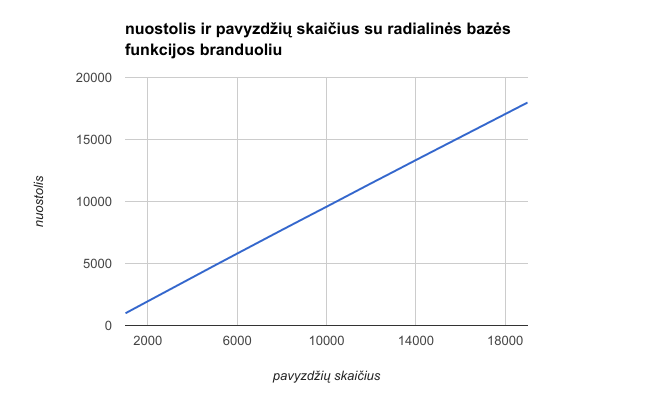
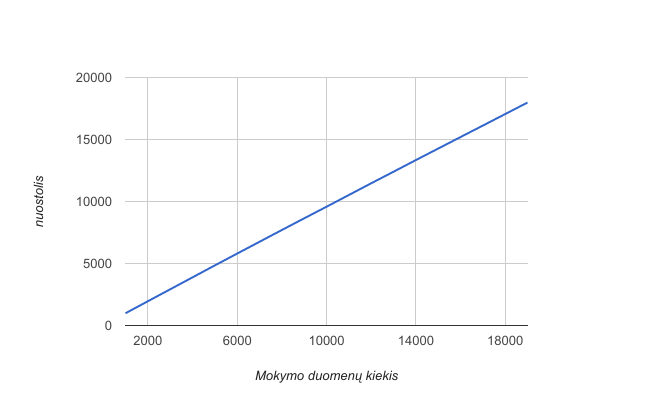
graphs

Changed region(s): [[0.184, 0.0596, 0.7975, 0.1489], [0.3681, 0.9231, 0.6135, 0.9529]]

diff --git a/docs/taikymas/mokymas.tex b/docs/taikymas/mokymas.tex
@@ -40,20 +40,20 @@ funkcijos laipsnis bei parametrų reguliarizavimo koeficientas.
 \end{ktutable}
 
 Mokant modelį pagal lentelėje \vref{tab:initial_train} nurodytus parametrus pastebėta tendencija, kad
-modelio kokybė mokymo metu negerėja. Tai atspindi šių parametrų nuostolio funkcijų grafikai
+modelio kokybė mokymo metu negerėja. Tai atspindi šių parametrų logistinių nuostolių funkcijų grafikai
 \ktufigref{images/svm_sux.png}. Naudojant parametrų rinkinius iš lentelės \vref{tab:initial_train}
 modelis nekonverguoja.
 
-\ktufigure{images/svm_sux.png}{14 cm}{Klasifikatoriaus nuostolių priklausomybė nuo mokymo duomenų kiekio}
+\ktufigure{images/svm_sux.png}{14 cm}{Klasifikatoriaus logistinių nuostolių priklausomybė nuo mokymo duomenų kiekio}
 
 Modelio mokymas toliau tyrinėtas naudojant kitas branduolio funkcijas ir derinant jų parametrus.
 Modelio parametrų reguliarizacijos parametras L2 nekeistas.
 
-\ktufigure{images/linear_loss.png}{12 cm}{Tiesinio branduolio modelio nuostolių ir mokymo duomenų kiekio santykis}
-\ktufigure{images/polly_loss.png}{12 cm}{Polinominio branduolio modelio nuostolių ir mokymo duomenų kiekio santykis}
-\ktufigure{images/rbf_loss.png}{12 cm}{Radialinės bazės funkcijos branduolio modelio nuostolių ir mokymo duomenų kiekio santykis}
+\ktufigure{images/linear_loss.png}{12 cm}{Tiesinio branduolio modelio nuostolių ir mokymo duomenų kiekio priklausomybė}
+\ktufigure{images/polly_loss.png}{12 cm}{Polinominio branduolio modelio nuostolių ir mokymo duomenų kiekio priklausomybė}
+\ktufigure{images/rbf_loss.png}{12 cm}{Radialinės bazės funkcijos branduolio modelio nuostolių ir mokymo duomenų kiekio priklausomybė}
 
-Naudojant kitus branduolio tipus pastebėta ta pati tendencija, matoma \ktufigref{images/linear_loss.png} - \ktufigref{images/rbf_loss.png}.
+Naudojant kitus branduolio tipus ir logistinę nuostolių funkciją pastebėta ta pati tendencija, matoma \ktufigref{images/linear_loss.png} - \ktufigref{images/rbf_loss.png}.
 
 \ktusubsection{Logistinės regresijos modelio mokymas}
 
